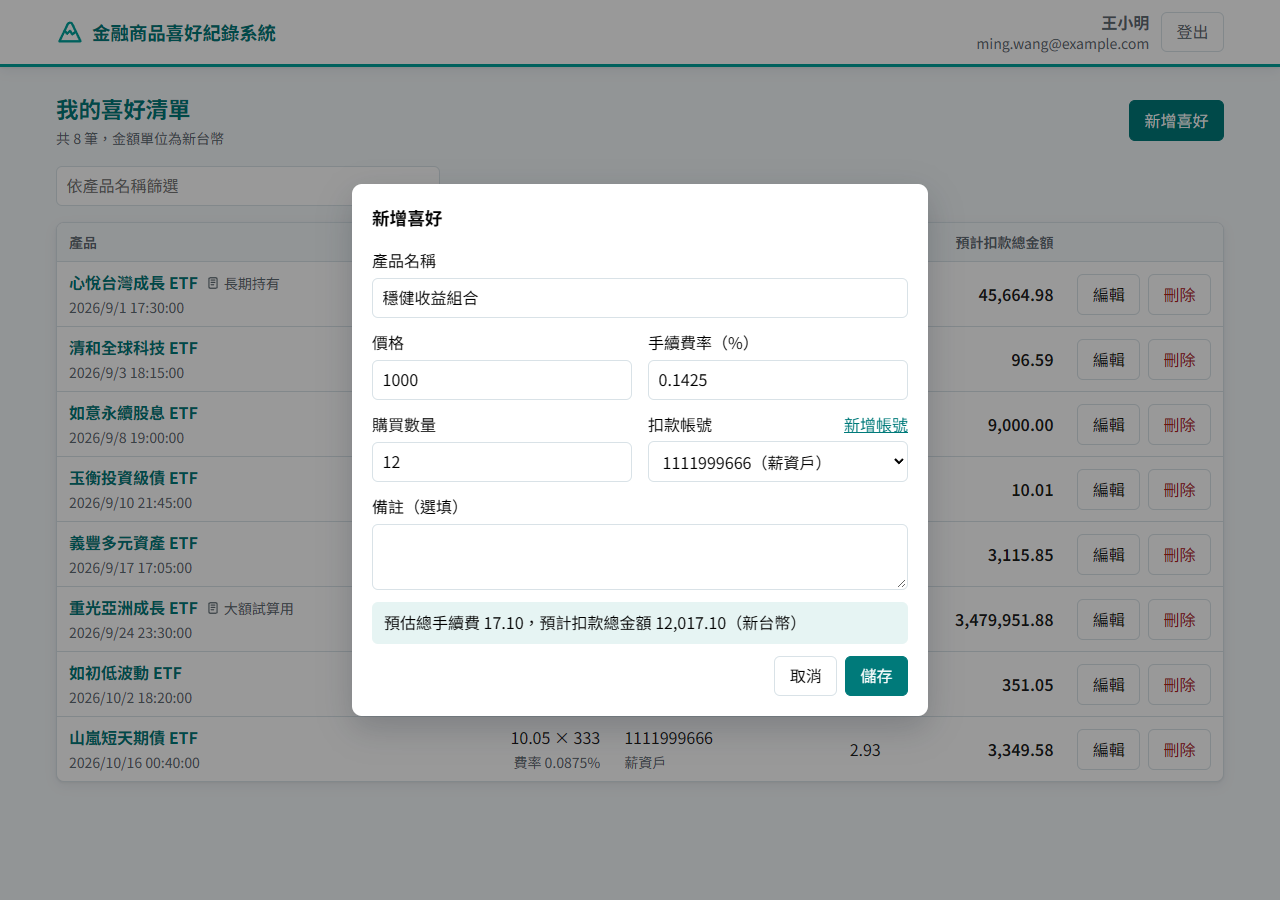
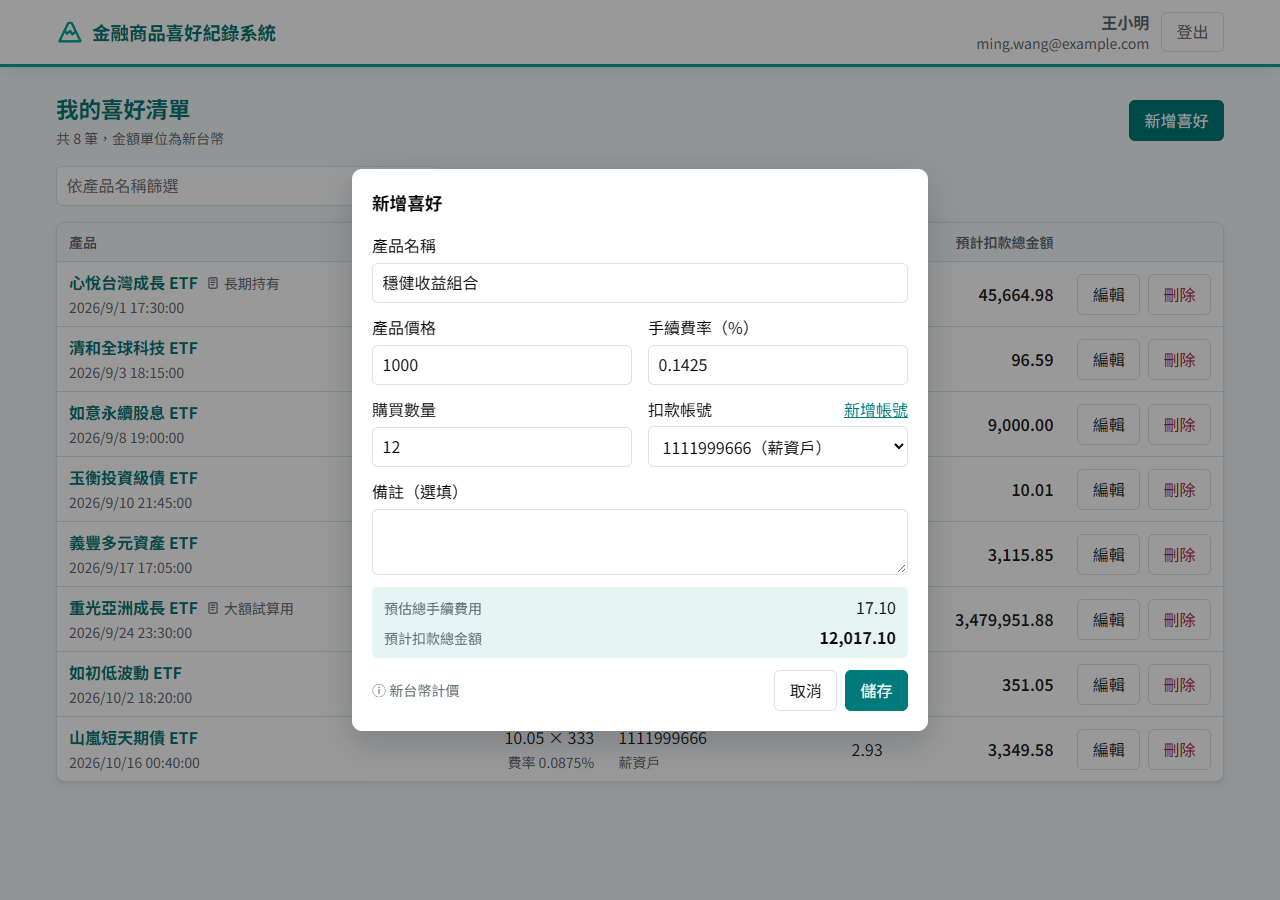
build(release): 準備 1.0.2 作業繳交版本
- 同步專案版本、容器建置與手動啟動指令
- 更新喜好清單、手機清單與表單截圖

Changed region(s): [[0.25, 0.6533, 0.75, 0.8711], [0.25, 0.1867, 0.75, 0.5911], [0.5, 0.3422, 0.7188, 0.5289]]

diff --git a/docs/DEVELOPMENT.md b/docs/DEVELOPMENT.md
@@ -47,7 +47,7 @@ New-Item -ItemType Directory -Force deploy\certs, deploy\logs, deploy\temp
 兩個終端機都從專案根目錄執行。自訂[連線設定](#設定)時，建置與啟動後端的終端機須設相同環境變數。
 
 ```powershell
-java -jar backend\target\financial-product-favorites-1.0.1.jar
+java -jar backend\target\financial-product-favorites-1.0.2.jar
 ```
 
 看到 `Started FinancialProductFavoritesApplication` 後，在另一個終端機啟動 Nginx：
